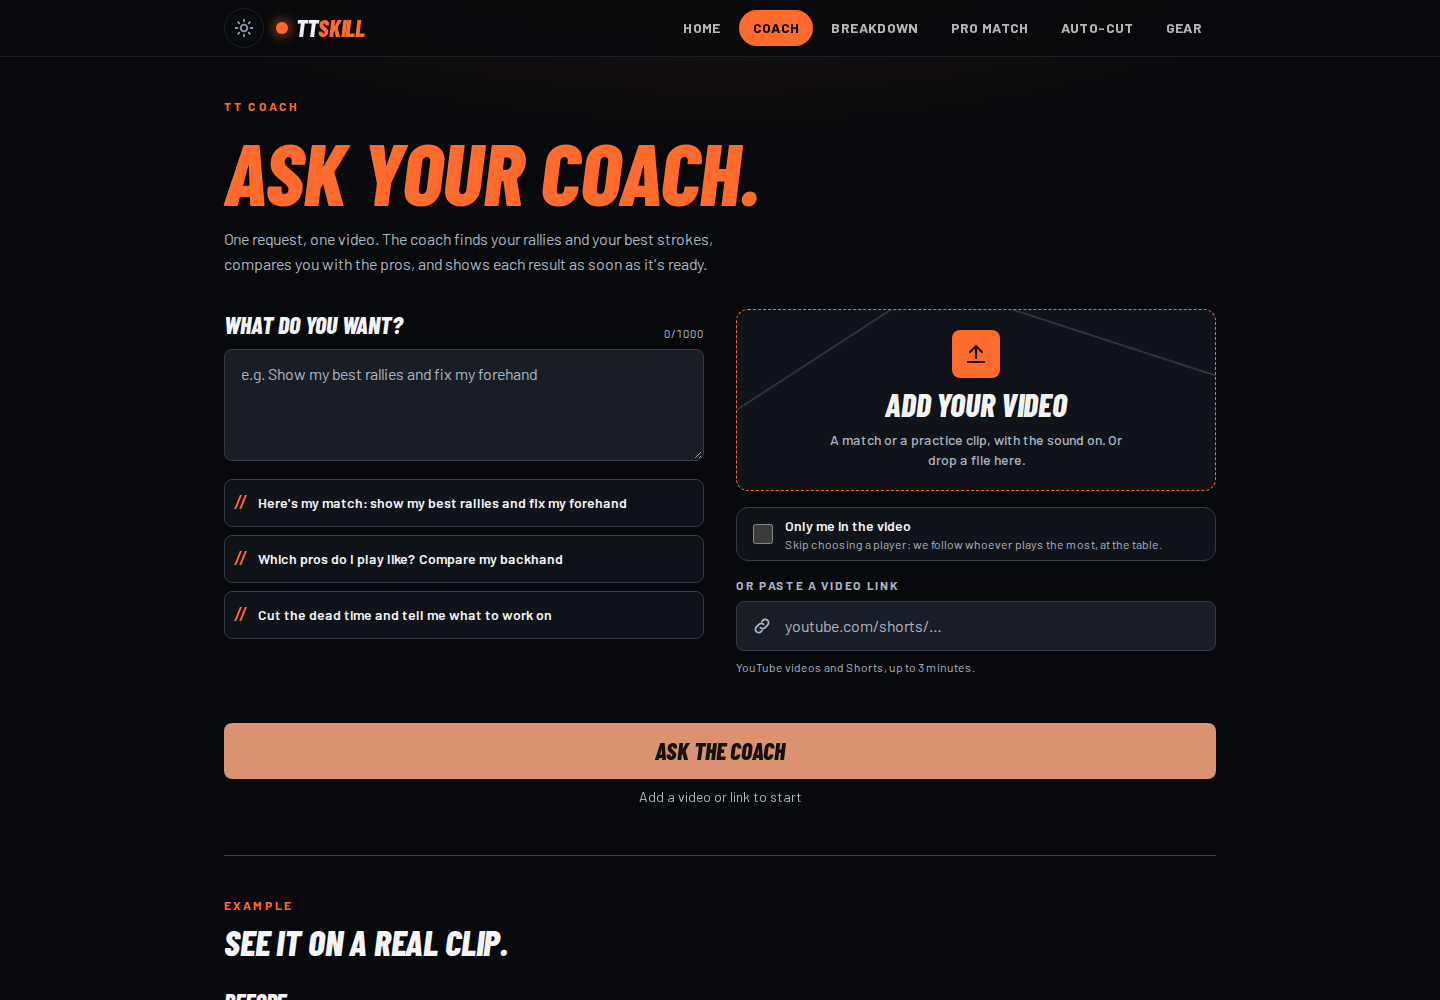
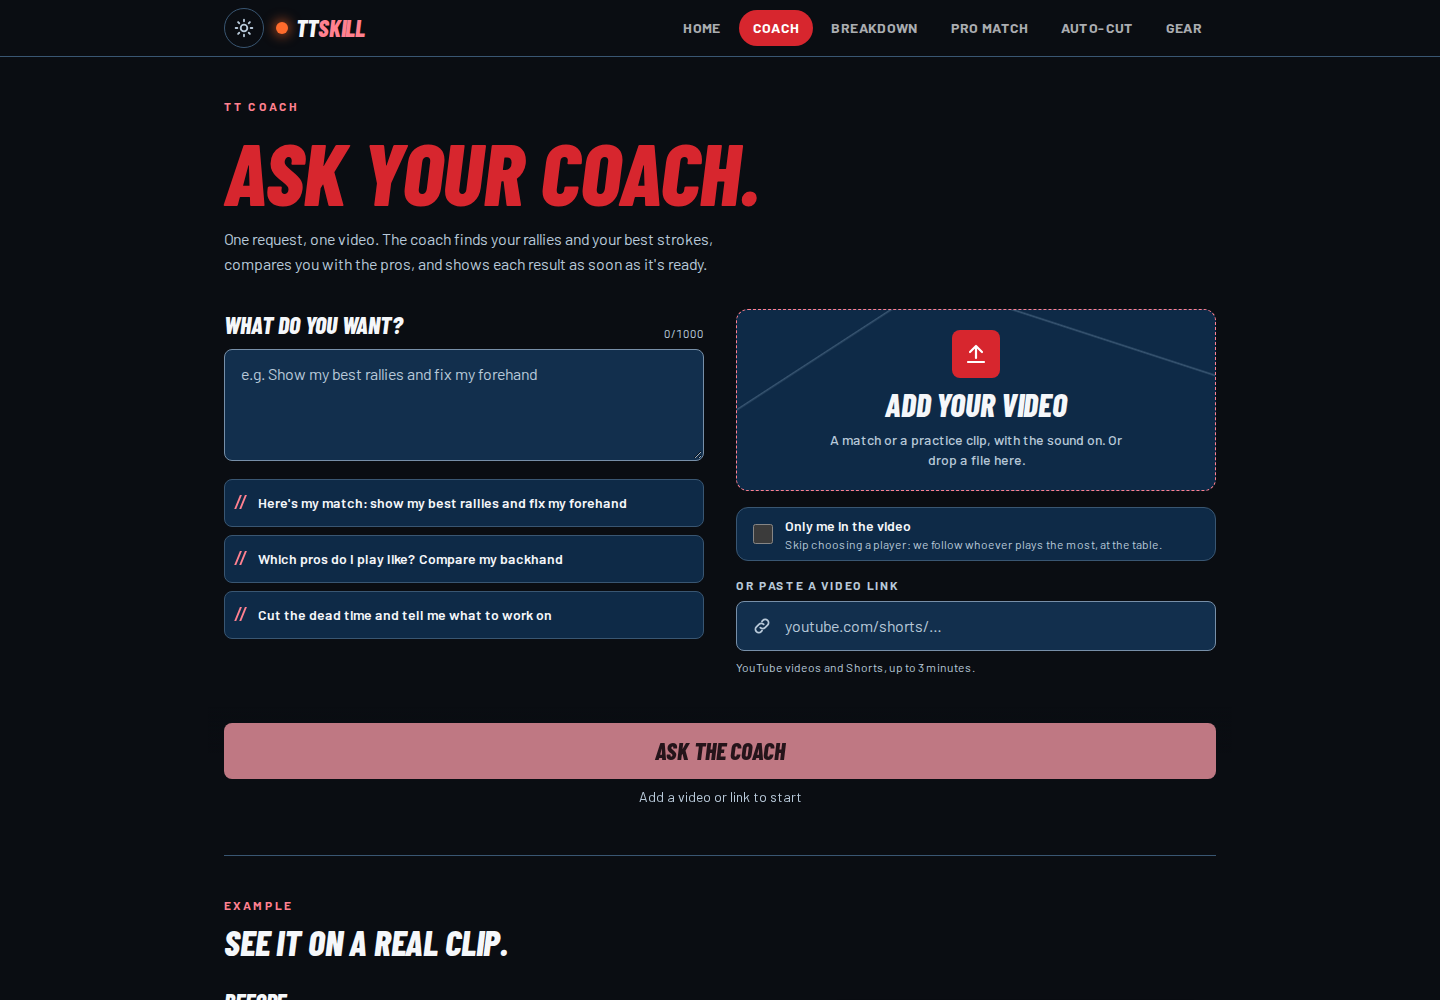
Apply table and rubber palette to Coach

diff --git a/frontend/app/coach/coach.css b/frontend/app/coach/coach.css
@@ -1,10 +1,41 @@
-.coach-surface {
+:root body:has(> main :is(.coach-form, .coach-result)) {
+  --color-ink: var(--training-bg);
   --color-fg: var(--training-ink);
+  --color-white: var(--training-ink);
   --color-muted: var(--training-muted);
   --color-panel: var(--training-surface);
   --color-line: var(--training-line);
   --color-accent: var(--training-accent);
+  --color-accent-hot: var(--training-ink);
+  --accent-glow: var(--training-action);
+  background: var(--training-bg);
   color: var(--training-ink);
+
+  > header {
+    background-color: var(--training-bg);
+  }
+
+  .site-nav :is(a, button) {
+    /* Keep the label and its backdrop in the same theme during the switch. */
+    transition-property: none;
+  }
+
+  .brand-ball {
+    background-color: var(--color-ball);
+  }
+
+  .site-nav-links a[aria-current="page"] {
+    background-color: var(--training-action);
+    color: var(--training-on-action);
+  }
+
+  :is([role="alert"], .text-red-100, .text-red-200, .text-red-300, .text-red-400) {
+    color: var(--training-error);
+  }
+}
+
+.coach-surface .eyebrow {
+  color: var(--training-secondary);
 }
 
 .coach-form {
@@ -14,7 +45,7 @@
 }
 
 .coach-form > :first-child h1 {
-  color: var(--training-accent);
+  color: var(--training-action);
   font-size: clamp(3rem, 7.5vw, 5.5rem);
 }
 
@@ -29,7 +60,16 @@
 
 .coach-form :is(textarea, input[type="url"]) {
   background: var(--training-field);
+  border-color: var(--training-control-line);
   border-radius: var(--training-control-radius);
+}
+
+.coach-form :is(textarea, input[type="url"]):focus {
+  border-color: var(--training-accent);
+}
+
+.coach-form :is(textarea, input[type="url"])[aria-invalid="true"] {
+  border-color: var(--training-error);
 }
 
 .coach-form :is(textarea, input[type="url"])::placeholder {
@@ -71,6 +111,18 @@
 .coach-prompts button:hover {
   border-color: var(--training-accent);
   background: var(--training-field);
+}
+
+.coach-upload :has(> input[type="file"]:focus-visible) {
+  --tw-ring-color: var(--training-accent);
+}
+
+.coach-upload input[type="checkbox"] {
+  accent-color: var(--training-action);
+}
+
+.coach-upload .stripes {
+  background-color: var(--training-surface);
 }
 
 .coach-upload .hatch {
@@ -119,15 +171,22 @@
 }
 
 .coach-form button[type="submit"]:enabled:hover {
-  background: var(--color-accent-hot);
+  background: var(--training-action-hover);
 }
 
 .coach-form button[type="submit"].cursor-not-allowed {
   background: var(--training-action-disabled);
+  color: var(--training-on-disabled);
   opacity: 1;
 }
 
-.coach-surface :is([role="alert"], .text-red-200, .text-red-300) {
+.coach-surface [role="note"] {
+  border-color: var(--training-line);
+  background: var(--training-surface);
+  color: var(--training-ink);
+}
+
+.coach-surface [role="note"] svg {
   color: var(--training-error);
 }
 
@@ -151,6 +210,11 @@
   color: var(--training-on-action);
 }
 
+.coach-upload .video-link-play {
+  background-color: var(--training-media);
+  color: var(--color-ball);
+}
+
 .coach-notes {
   padding: clamp(1rem, 3vw, 1.75rem);
   border-inline-start: 4px solid var(--training-action);
@@ -160,6 +224,12 @@
 
 .coach-notes > .headline {
   font-size: clamp(1.75rem, 4vw, 2.5rem);
+}
+
+.coach-result h1,
+.coach-output h2,
+.coach-notes > .headline {
+  color: var(--training-accent);
 }
 
 .coach-output {

diff --git a/frontend/app/globals.css b/frontend/app/globals.css
@@ -6,7 +6,8 @@
 
 @theme {
   /* Ball orange on near-black. */
-  --color-accent: #ff6b2c;
+  --color-ball: #ff6b2c;
+  --color-accent: var(--color-ball);
   --color-accent-hot: #ff8547;
   --color-ink: #07090d;
   --color-panel: #0e1218;
@@ -75,12 +76,13 @@
 
 html {
   color-scheme: dark;
+  --accent-glow: var(--color-ball);
   -webkit-tap-highlight-color: transparent;
 }
 
 body {
   background:
-    radial-gradient(70rem 28rem at 50% -10rem, rgb(255 107 44 / 0.16), transparent 70%) no-repeat,
+    radial-gradient(70rem 28rem at 50% -10rem, color-mix(in srgb, var(--color-ball) 16%, transparent), transparent 70%) no-repeat,
     var(--color-ink);
   color: var(--color-fg);
 }
@@ -96,30 +98,48 @@ body {
   outline-offset: 2px;
 }
 
-/* Training surfaces opt into these tokens independently of the app shell. */
+/* Table and rubber palette used by Coach. */
 :root {
-  --training-surface: #101319;
-  --training-field: #191e26;
-  --training-ink: #f4f4f6;
-  --training-muted: #aeb5c2;
-  --training-line: #343b46;
-  --training-accent: #ff6b2c;
-  --training-action: #ff6b2c;
-  --training-action-disabled: #db9270;
-  --training-on-action: #17100c;
-  --training-error: #fecaca;
+  --training-bg: #0a0d12;
+  --training-surface: #0e2a47;
+  --training-field: #122f4d;
+  --training-ink: #f5f7fa;
+  --training-muted: #b8c9d9;
+  --training-line: #395672;
+  --training-control-line: #778fa8;
+  --training-accent: #ff8190;
+  --training-secondary: var(--training-accent);
+  --training-action: #d7262e;
+  --training-action-hover: #b91e2b;
+  --training-action-disabled: #bf7883;
+  --training-on-action: #fff;
+  --training-on-disabled: #25141a;
+  --training-error: #ffbdc5;
   --training-media: #090b0e;
+  --training-forehand: var(--training-action);
+  --training-backhand: #20242b;
+  --training-backhand-line: #b8c6d5;
+  --training-good: #1e7f4f;
   --training-control-radius: 0.5rem;
   --training-panel-radius: 0.75rem;
   --training-feedback: 160ms;
 }
 
 :root[data-theme="light"] {
-  --training-surface: #fff8f6;
-  --training-field: #ffefeb;
-  --training-ink: #291310;
-  --training-muted: #684641;
-  --training-line: #d9b6ae;
-  --training-accent: #a9300c;
-  --training-error: #9f2020;
+  --training-bg: #f7f5fc;
+  --training-surface: #eeeaf8;
+  --training-field: #fcfaff;
+  --training-ink: #1b1722;
+  --training-muted: #51485f;
+  --training-line: #cec5df;
+  --training-control-line: #897e9d;
+  --training-accent: #a51b2a;
+  --training-secondary: #6958a3;
+  --training-action: #b81f26;
+  --training-action-hover: #941722;
+  --training-action-disabled: #e4a5ae;
+  --training-error: #8d1526;
+  --training-backhand: #2b2a30;
+  --training-backhand-line: #776e85;
+  --training-good: #17663f;
 }

diff --git a/frontend/app/video-picker.tsx b/frontend/app/video-picker.tsx
@@ -139,7 +139,7 @@ export function VideoPicker({ name = "video", linkName = "url", title, hint, kin
               {/* YouTube's own thumbnail; nothing is downloaded until the form is sent. */}
               <img src={`https://i.ytimg.com/vi/${ytId}/hqdefault.jpg`} alt="" className="size-full object-cover opacity-80" />
               <span aria-hidden className="absolute inset-0 grid place-items-center">
-                <span className="grid size-16 place-items-center rounded-full bg-accent text-black shadow-[0_0_30px_rgb(255_107_44/0.6)]">
+                <span className="video-link-play grid size-16 place-items-center rounded-full bg-accent text-black shadow-[0_0_30px_color-mix(in_srgb,var(--color-ball)_60%,transparent)]">
                   <PlayIcon className="size-7" />
                 </span>
               </span>
@@ -158,7 +158,7 @@ export function VideoPicker({ name = "video", linkName = "url", title, hint, kin
         ) : (
           <label
             htmlFor={id}
-            className={`hatch relative flex min-h-64 w-full cursor-pointer flex-col items-center justify-center gap-4 overflow-hidden rounded-3xl bg-accent px-6 py-10 text-center text-black shadow-[0_24px_60px_-24px_rgb(255_107_44/0.7)] transition hover:bg-accent-hot active:scale-[.99] ${dragging ? "scale-[1.01] ring-4 ring-white" : ""}`}
+            className={`hatch relative flex min-h-64 w-full cursor-pointer flex-col items-center justify-center gap-4 overflow-hidden rounded-3xl bg-accent px-6 py-10 text-center text-black shadow-[0_24px_60px_-24px_color-mix(in_srgb,var(--accent-glow)_70%,transparent)] transition hover:bg-accent-hot active:scale-[.99] ${dragging ? "scale-[1.01] ring-4 ring-white" : ""}`}
           >
             <span className="grid size-20 place-items-center rounded-full bg-black text-accent">
               <UploadIcon className="size-9" />

diff --git a/frontend/app/player-picker.tsx b/frontend/app/player-picker.tsx
@@ -444,7 +444,7 @@ export function PlayerPicker({ previewUrl, duration, file = null, unreadable = f
                 key={id} type="button" aria-pressed={on} aria-label={`Player ${id + 1}`}
                 onClick={() => select(c, found.frame!.time, box)}
                 style={{ left: pct(box[0]), top: pct(box[1]), width: pct(box[2] - box[0]), height: pct(box[3] - box[1]) }}
-                className={`absolute rounded-lg border-2 ${on ? "border-accent bg-accent/20 shadow-[0_0_24px_rgb(255_107_44/0.6)]" : `${c.background ? "border-dashed border-white/50" : "border-white/80"} bg-white/5 hover:border-accent`}`}
+                className={`absolute rounded-lg border-2 ${on ? "border-accent bg-accent/20 shadow-[0_0_24px_color-mix(in_srgb,var(--accent-glow)_60%,transparent)]" : `${c.background ? "border-dashed border-white/50" : "border-white/80"} bg-white/5 hover:border-accent`}`}
               />
             );
           })}

diff --git a/frontend/app/layout.tsx b/frontend/app/layout.tsx
@@ -36,7 +36,7 @@ export default function RootLayout({ children }: { children: React.ReactNode }) 
           <nav className="site-nav mx-auto flex h-14 max-w-5xl items-center gap-3 px-4">
             <ThemeToggle />
             <Link href="/" className="headline mr-auto flex shrink-0 items-center gap-2 text-2xl">
-              <span aria-hidden className="size-3 rounded-full bg-accent shadow-[0_0_12px_2px_rgb(255_107_44/0.6)]" />
+              <span aria-hidden className="brand-ball size-3 rounded-full bg-accent shadow-[0_0_12px_2px_color-mix(in_srgb,var(--color-ball)_60%,transparent)]" />
               <span>TT<span className="text-accent">Skill</span></span>
             </Link>
             <Nav />

diff --git a/frontend/app/examples.tsx b/frontend/app/examples.tsx
@@ -17,7 +17,7 @@ function ExampleVideo({ clip }: { clip: Clip }) {
         <span className="text-right text-xs text-muted">{clip.caption}</span>
       </figcaption>
       {clip.message && (
-        <p className="ml-auto w-fit max-w-[85%] rounded-2xl rounded-br-md bg-accent px-4 py-2.5 text-sm font-semibold text-black shadow-[0_0_24px_rgb(255_107_44/0.35)]">
+        <p className="ml-auto w-fit max-w-[85%] rounded-2xl rounded-br-md bg-accent px-4 py-2.5 text-sm font-semibold text-black shadow-[0_0_24px_color-mix(in_srgb,var(--accent-glow)_35%,transparent)]">
           {clip.message}
         </p>
       )}

diff --git a/docs/STYLE.md b/docs/STYLE.md
@@ -1,22 +1,40 @@
 # TTSkill Coach style
 
-A table-tennis training desk with ball orange, condensed italic headlines, and quiet surfaces. The upload panel borrows angled court markings. In the result, an orange rule marks the coaching notes and the footage gets a clear frame of its own.
+Table and rubber pairs condensed italic headlines with the colors of the sport. Dark mode uses a near-black canvas and deep table blue. Light mode uses a lavender canvas and softly tinted surfaces. Rubber red marks primary actions, titles, focus, and the active tab. Orange is reserved for the brand ball and small video accents.
 
-| CSS variable | Dark | Light |
-| --- | --- | --- |
-| `--training-surface` | `#101319` | `#fff8f6` |
-| `--training-field` | `#191e26` | `#ffefeb` |
-| `--training-ink` | `#f4f4f6` | `#291310` |
-| `--training-muted` | `#aeb5c2` | `#684641` |
-| `--training-line` | `#343b46` | `#d9b6ae` |
-| `--training-accent` | `#ff6b2c` | `#a9300c` |
-| `--training-action` | `#ff6b2c` | `#ff6b2c` |
-| `--training-action-disabled` | `#db9270` | `#db9270` |
-| `--training-on-action` | `#17100c` | `#17100c` |
-| `--training-error` | `#fecaca` | `#9f2020` |
-| `--training-media` | `#090b0e` | `#090b0e` |
+| CSS variable | Dark | Light | Use |
+| --- | --- | --- | --- |
+| `--training-bg` | `#0A0D12` | `#F7F5FC` | Page and header |
+| `--training-surface` | `#0E2A47` | `#EEEAF8` | Cards and panels |
+| `--training-field` | `#122F4D` | `#FCFAFF` | Inputs and surface hover |
+| `--training-ink` | `#F5F7FA` | `#1B1722` | Main text |
+| `--training-muted` | `#B8C9D9` | `#51485F` | Supporting text and placeholders |
+| `--training-line` | `#395672` | `#CEC5DF` | Dividers and panel edges |
+| `--training-control-line` | `#778FA8` | `#897E9D` | Input boundaries |
+| `--training-accent` | `#FF8190` | `#A51B2A` | Readable red text and focus rings |
+| `--training-secondary` | `#FF8190` | `#6958A3` | Section labels |
+| `--training-action` | `#D7262E` | `#B81F26` | Button fills, active tab, and large page title |
+| `--training-action-hover` | `#B91E2B` | `#941722` | Hovered primary button |
+| `--training-action-disabled` | `#BF7883` | `#E4A5AE` | Disabled primary button |
+| `--training-on-action` | `#FFFFFF` | `#FFFFFF` | Text and icons on solid red |
+| `--training-on-disabled` | `#25141A` | `#25141A` | Text on faded red |
+| `--training-error` | `#FFBDC5` | `#8D1526` | Error text and invalid input edges |
+| `--training-media` | `#090B0E` | `#090B0E` | Video frames |
+| `--color-ball` | `#FF6B2C` | `#FF6B2C` | Ball highlights and video accents |
 
-- **Type.** Use Barlow Condensed 800 italic for display and Barlow 400–700 for body and controls. Use 48–88 px for the form title, 28–40 px for section titles, 16 px for body, and 13 px for labels. Both fonts are already bundled under SIL OFL 1.1.
-- **Spacing.** Work from 8, 16, 24, 32 and 48 px. Keep the form in one column on phones. Use two shrinkable columns on wider displays. Keep the notes and videos in separate rows in the result column.
-- **Edges.** Use 8 px for controls and 12 px for panels and media. Use a dashed outline to identify the upload target and a solid orange rule to identify the coaching notes.
-- **Motion.** Use 160 ms for color and border feedback and up to 300 ms for progress fills. Respect reduced motion for transitions and status pulses.
+### Semantic colors
+
+| CSS variable | Dark | Light | Use |
+| --- | --- | --- | --- |
+| `--training-forehand` | `#D7262E` | `#B81F26` | Forehand label fill |
+| `--training-backhand` | `#20242B` | `#2B2A30` | Backhand label fill |
+| `--training-backhand-line` | `#B8C6D5` | `#776E85` | Backhand outline |
+| `--training-good` | `#1E7F4F` | `#17663F` | Good or improved label fill |
+
+Use white label text over the semantic fills. Pair each fill with a written label and use the outlined charcoal swatch for backhand, especially against the dark canvas.
+
+- **Contrast.** Use a minimum of 4.5:1 for body text, labels, and placeholders, and 3:1 for large text and essential control boundaries. Keep the brighter red for small text on dark blue and use solid rubber red with white text for primary controls. [WCAG text contrast](https://www.w3.org/WAI/WCAG22/Understanding/contrast-minimum.html) · [WCAG non-text contrast](https://www.w3.org/WAI/WCAG22/Understanding/non-text-contrast.html)
+- **Type.** Use Barlow Condensed 800 italic for display and Barlow 400–700 for body and controls. Use 48–88 px for the form title, 28–40 px for section titles, 16 px for body, and 13 px for labels. Both fonts are bundled under SIL OFL 1.1.
+- **Spacing.** Work from 8, 16, 24, 32, and 48 px. Keep the form in one column on phones and use two shrinkable columns on wider displays. Give notes and videos separate rows. Below 600 px, the navigation tabs scroll in their own row.
+- **Edges.** Use 8 px for controls and 12 px for panels and media. Use a dashed outline to identify the upload target and a solid red rule to identify the coaching notes. Keep the header divider as the line above the page.
+- **Motion.** Use 160 ms for color and border feedback and up to 300 ms for progress fills. Respect reduced motion for transitions and status pulses. Switch the header text and background colors together.

diff --git a/PROGRESS.md b/PROGRESS.md
@@ -257,3 +257,11 @@ Backend: **336 passed, 2 network skips, 1 known xfail**.
 - Playwright checked both widths for clipping, the disabled hint, demo submission, and notes/video separation. Updated the [390 px](docs/screenshots/coach/dark-390.png) and [1440 px](docs/screenshots/coach/dark-1440.png) dark screenshots.
 - Committed the Next.js ESLint configuration and locked its development dependencies. `npm run lint` completed without prompting with zero errors and five existing image warnings. All 172 frontend tests passed.
 - The Next.js production build passed.
+
+## Coach table and rubber palette (2026-11-20)
+
+- Coach uses near-black and table blue in dark mode, lavender-tinted surfaces in light mode, and rubber red for primary controls. Orange marks the brand ball and the video-link preview. The [style guide](docs/STYLE.md) records both palettes and the forehand, backhand, and improvement tokens.
+- Playwright checked the form and demo result at 390 and 1440 px in each theme. All six tabs fit at 390 px. The header has one divider, the disabled hint appears below the button, and notes and video stay in separate rows. Retook all four screenshots in [the Coach screenshot folder](docs/screenshots/coach).
+- Rendered text, placeholder, input-boundary, and keyboard-focus contrast checks passed the applicable WCAG AA thresholds. The lowest sampled small-text contrast was 4.89:1 in dark and 4.96:1 in light.
+- All 172 frontend tests passed. The committed ESLint config ran without prompting and reported five existing image warnings.
+- The Next.js production build passed.
